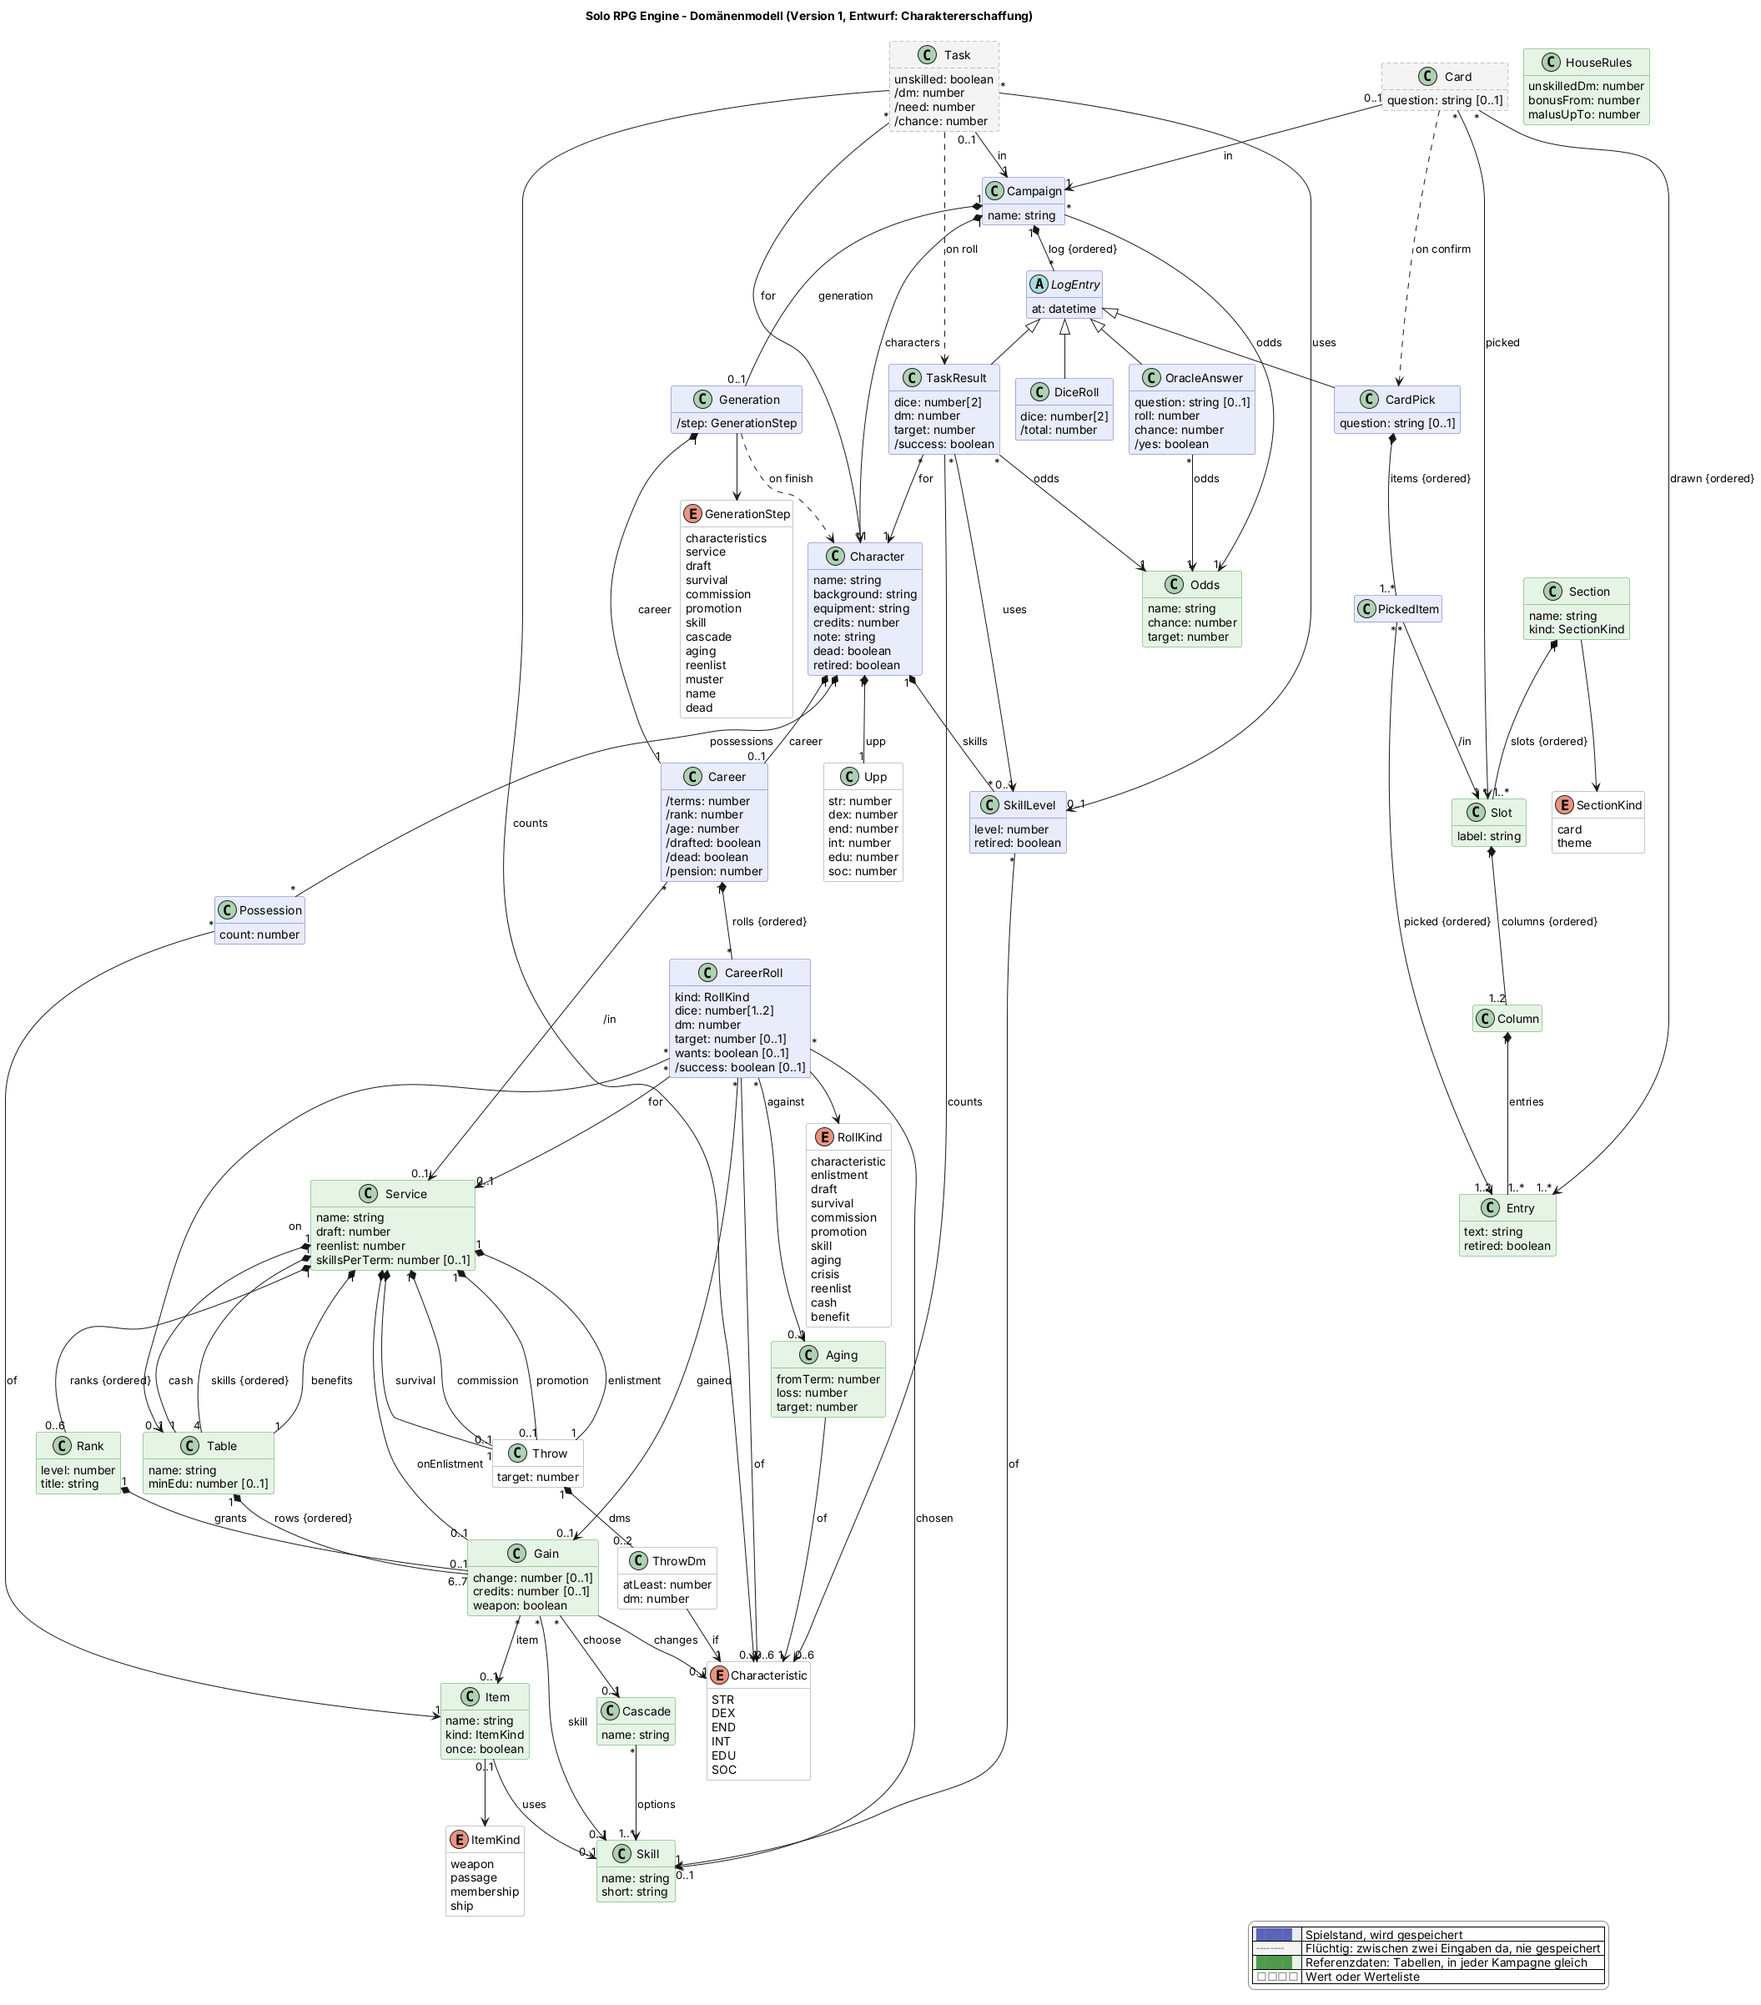
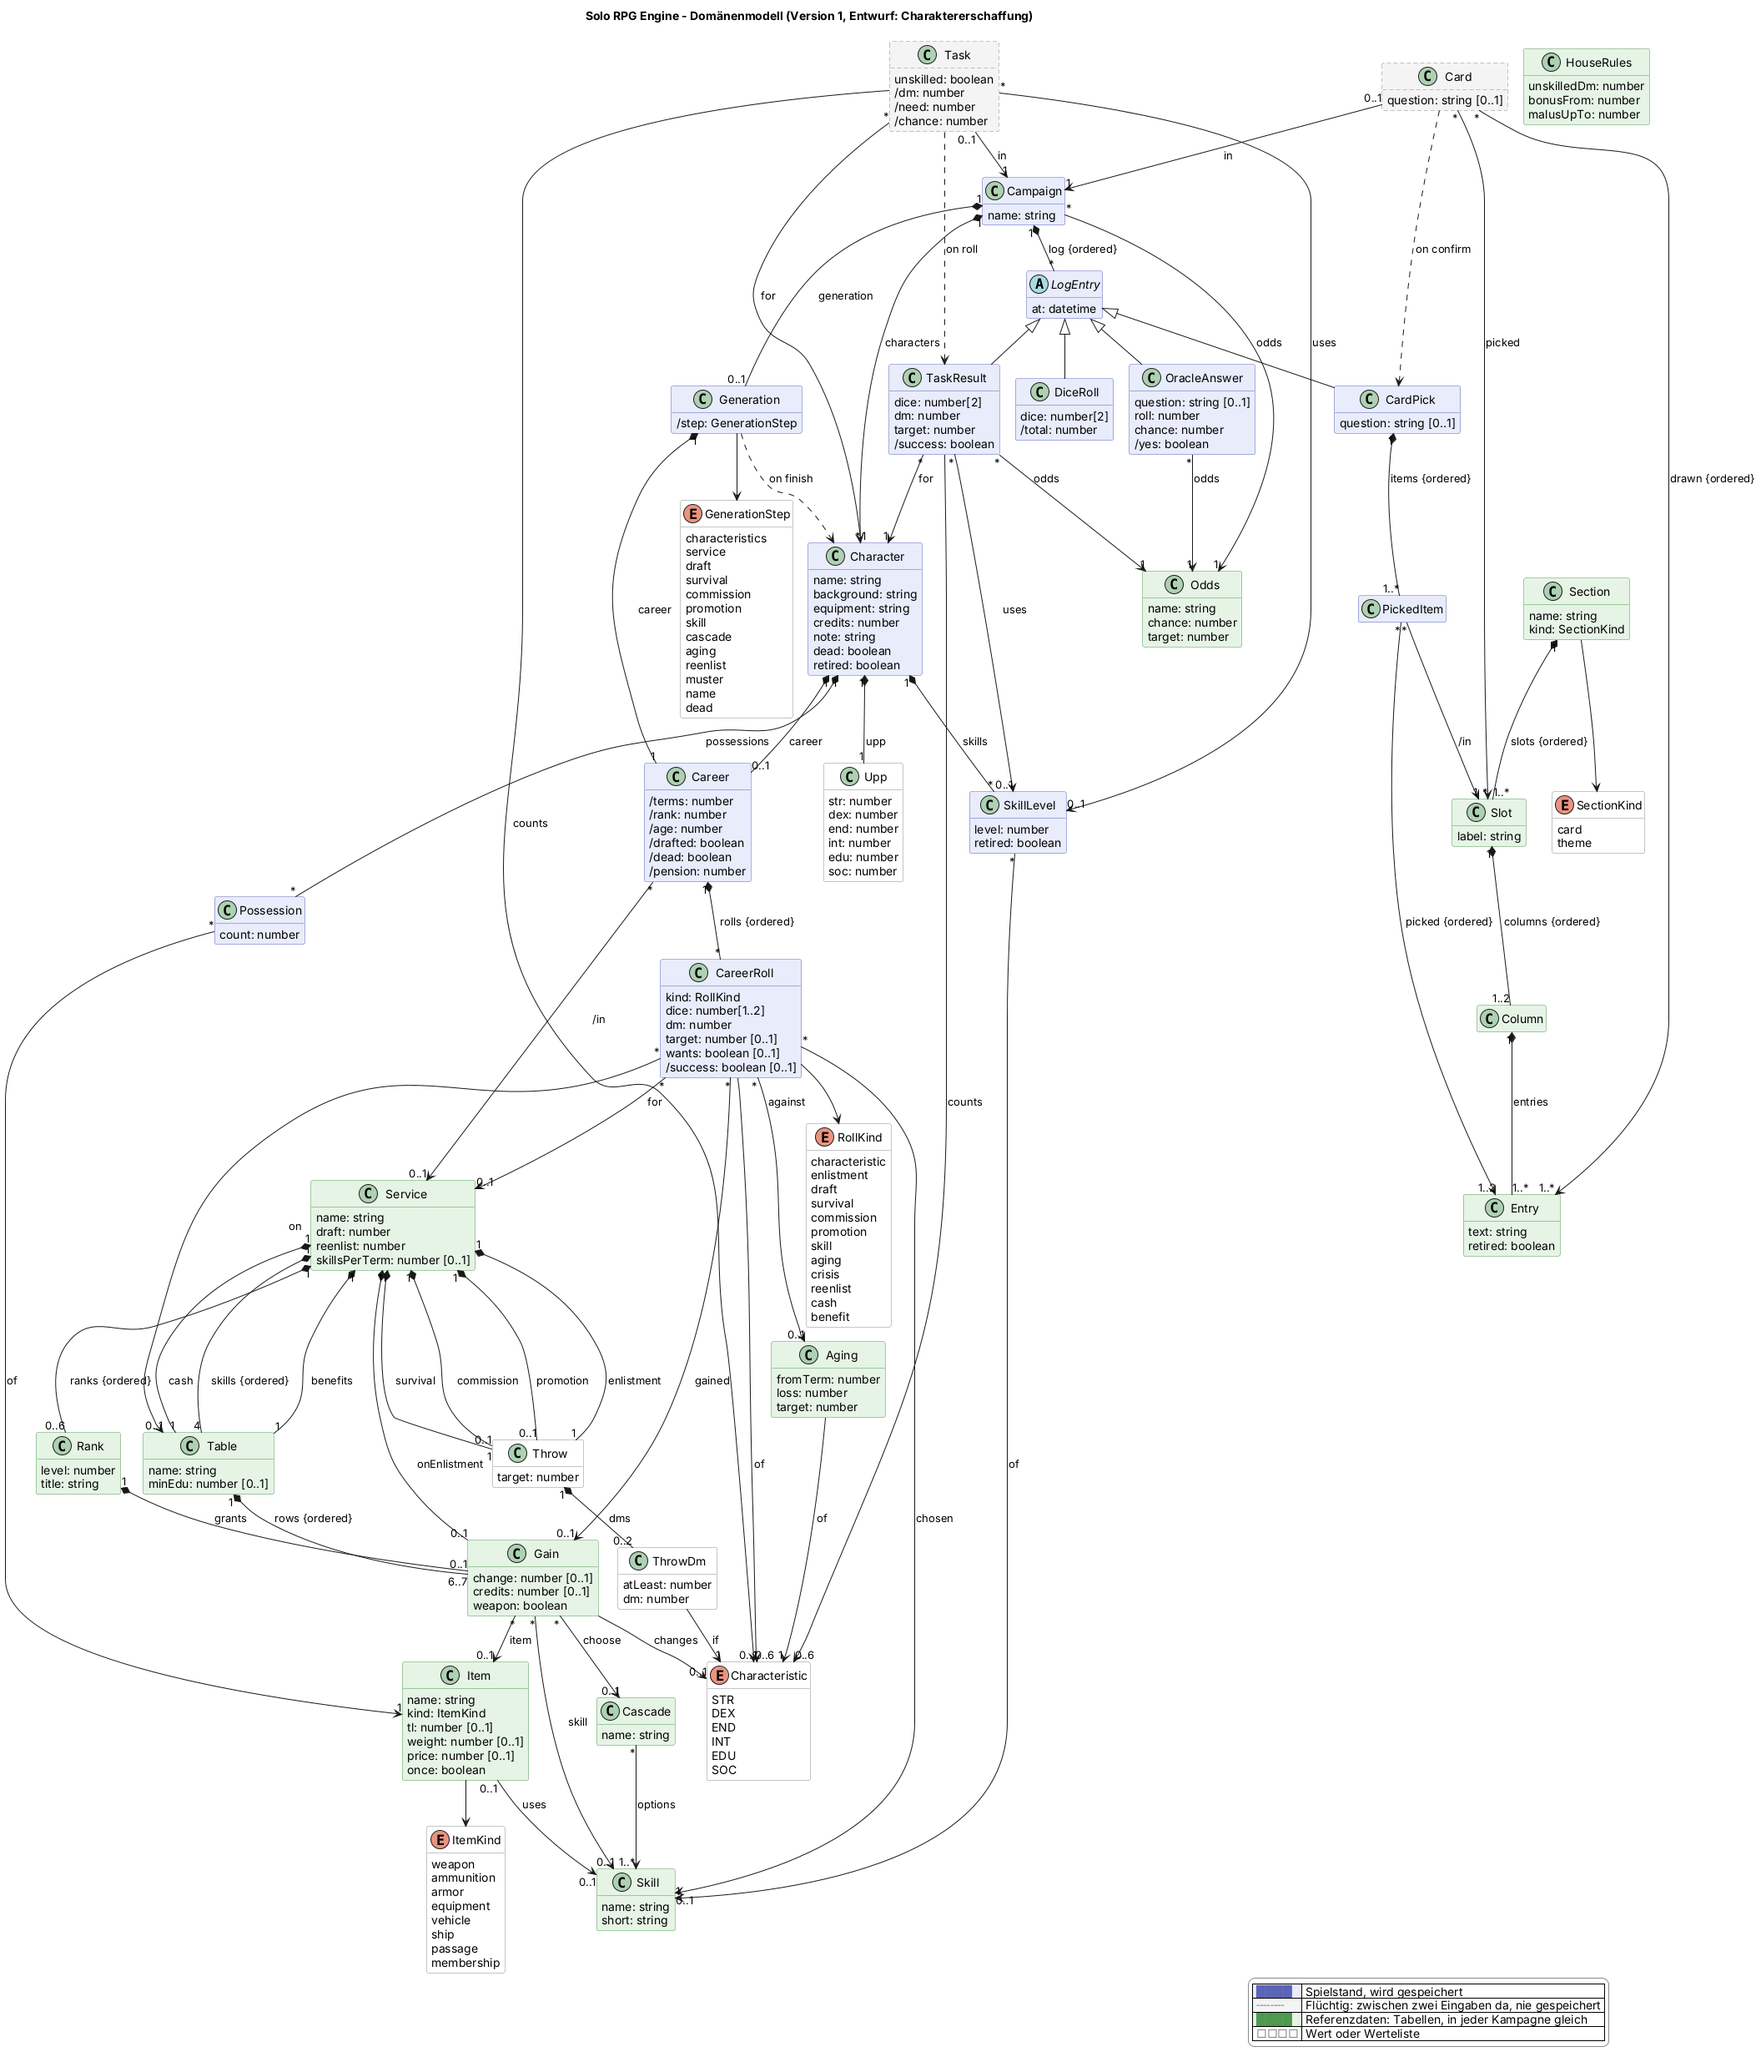
Modell: Gegenstände mit TL, Gewicht und Preis aus den Charts (Entwurf)
Item bekommt tl, weight (kg) und price (Cr) nach Personal Equipment and
Vehicles (S. 23), Ship Revenues (S. 9) und Standard Ship Designs (S. 11);
ItemKind um ammunition, armor, equipment und vehicle erweitert. Kampfwerte,
Kaufen und Gesamtgewicht kommen später. Neue offene Frage: wie viel der
Liste jetzt.

Claude-Session: https://claude.ai/code/session_01XuUeRRe3PSaFjhwAipBgn9

diff --git a/docs/domain-model.md b/docs/domain-model.md
@@ -57,8 +57,9 @@ Vacc Suit, Jack-of-all-Trades, …), Terms, Cr.
 | Fertigkeit | `Skill` | Eine Fertigkeit aus der Liste, z. B. Pilot |
 | Kürzel | `Skill.short` | Drei Zeichen für eine Fertigkeit, z. B. Pil für Pilot |
 | Fertigkeitsstufe | `SkillLevel` | Die Stufe, die ein Charakter in einer Fertigkeit hat, z. B. Pilot-2 |
-| Gegenstand | `Item` | Etwas aus der festen Liste, das man besitzen kann: Waffe, Passage, Mitgliedschaft, Schiff |
-| Art des Gegenstands | `ItemKind` | weapon, passage, membership, ship |
+| Gegenstand | `Item` | Etwas aus der festen Liste, das man besitzen kann, mit TL, Gewicht und Preis aus den Charts |
+| Art des Gegenstands | `ItemKind` | weapon, ammunition, armor, equipment, vehicle, ship, passage, membership |
+| TL | `Item.tl` | Tech Level, ab dem es den Gegenstand gibt |
 | Besitz | `Possession` | Ein Gegenstand, den ein Charakter hat, mit Anzahl, z. B. 2 × Low Passage |
 | Stufe (Hoch/Mittel/Gering) | `Odds` | Die eine Auswahl für Orakel und Proben |
 | Hausregeln | `HouseRules` | Die Zahlen, nach denen Proben gerechnet werden |
@@ -196,11 +197,24 @@ Vacc Suit, Jack-of-all-Trades, …), Terms, Cr.
   aus der festen Liste höchstens ein Eintrag, mit einer Anzahl von 1 oder mehr (3 × Low Passage,
   2 × Free Trader für zwei abbezahlte Raten). Ein Gegenstand mit `once` hat immer die Anzahl 1. Im
   Editor lässt sich Besitz hinzufügen, zählen und entfernen wie Fertigkeiten; entfernt wird er
-  wirklich, weil der Log nicht auf ihn verweist. Die Liste umfasst zunächst, was die Abmusterung
-  bringen kann: alle Klingen und Schusswaffen der Charts (jede nutzt genau ihre Fertigkeit, `uses`),
-  Low, Middle und High Passage, Travellers' Aid Society, Scout Ship und Free Trader. Preise, Gewichte,
-  Rüstungen und Kaufen kommen später mit Kampf und Handel. Alles andere bleibt freier Text in der
-  Ausrüstung (`equipment`). Schiffe sind vorerst nur ein Gegenstand; Schiffskarten kommen später.
+  wirklich, weil der Log nicht auf ihn verweist.
+  - **Die Liste** kommt aus den Charts der Starter Edition: *Personal Equipment and Vehicles* (S. 23:
+    Ausrüstung, Kommunikatoren, Geräte, Sichthilfen, Werkzeug, Unterkünfte, Fahrzeuge, Small Craft,
+    Waffen mit Munition und Energiezellen, Rüstungen), dazu die Passagen (Ship Revenues, S. 9: High
+    Cr 10.000, Middle Cr 8.000, Low Cr 1.000), die Schiffe aus der Abmusterung (Standard Ship
+    Designs, S. 11: Scout MCr 29,43, Free Trader MCr 37,08) und die Travellers' Aid Society. Jede
+    Klinge und Schusswaffe nutzt genau ihre Fertigkeit (`uses`).
+  - **TL, Gewicht und Preis** (`tl`, `weight`, `price`) stehen, wie in den Charts angegeben. Das
+    Gewicht ist immer in kg (S. 4 nennt Gramm, S. 23 bei Fahrzeugen Tonnen = 1000 kg), der Preis
+    immer in Cr (KCr und MCr umgerechnet). Was die Charts nicht angeben, fehlt (Club und die
+    Travellers' Aid Society haben keinen Preis, Passagen und Mitgliedschaft kein Gewicht). Bei Schiffen und Small Craft sind „tons“
+    Verdrängung, kein Gewicht; sie haben deshalb keins. Gibt es einen Gegenstand in mehreren TL
+    (Vacc Suit TL 8 bis 13), ist jede Zeile ein eigener Gegenstand mit eigener Id. Was eine Zeile
+    „10 % of price“ kostet (Accessories), ist kein Gegenstand.
+  - **Später**, mit Kampf und Handel: Kampfwerte der Waffen und Rüstungen (S. 4: Länge, nötige
+    Stärke, DMs, Reichweite), Kaufen und Verkaufen, Gesamtgewicht. Schiffe sind vorerst nur ein
+    Gegenstand; Schiffskarten kommen später. Alles, was nicht in der Liste steht, bleibt freier Text
+    in der Ausrüstung (`equipment`).
 - **Löschen und Ausblenden.** Ein Charakter oder eine Fertigkeitsstufe, auf die kein Logeintrag
   verweist, wird wirklich gelöscht. Verweist der Log darauf, wird sie stattdessen ausgeblendet
   (`retired`): Sie verschwindet aus dem Charakter-Screen und lässt sich nicht mehr für Proben wählen,
@@ -311,7 +325,7 @@ Vacc Suit, Jack-of-all-Trades, …), Terms, Cr.
 
 ## Offene Fragen
 
-Zur Charaktererschaffung; das Bild zeigt jeweils die empfohlene Antwort.
+Zur Charaktererschaffung und zu den Gegenständen; das Bild zeigt jeweils die empfohlene Antwort.
 
 1. **Erschaffung speichern?** Empfehlung: ja, als Teil der Kampagne (blau). Eine Erschaffung dauert
    einige Minuten; schließt das Handy die App, wäre sie sonst weg, und man könnte durch Neuladen neu
@@ -325,6 +339,9 @@ Zur Charaktererschaffung; das Bild zeigt jeweils die empfohlene Antwort.
 4. **Welche Laufbahnen?** Empfehlung: die sechs aus dem Regelwerk (Navy, Marines, Army, Scouts,
    Merchants, Other). Das Vorbild hat 17 (aus *Citizens of the Imperium*); sie ließen sich später als
    Daten ergänzen, ohne das Modell zu ändern.
+5. **Wie viel von der Liste der Gegenstände jetzt?** Empfehlung: alles von S. 23 und dazu Passagen,
+   Schiffe und TAS (siehe *Gegenstände*), damit man im Editor gleich jede Ausrüstung als Besitz
+   eintragen kann. Alternative: nur, was die Abmusterung bringen kann; der Rest bliebe freier Text.
 
 Dazu ohne Frage, nur zur Kenntnis: In die Liste der Fertigkeiten kommen Brawling, Forgery und die
 einzelnen Fahrzeuge (Grav, Tracked, Wheeled, Prop-driven und Jet-driven Fixed Wing, Helicopter, Large
